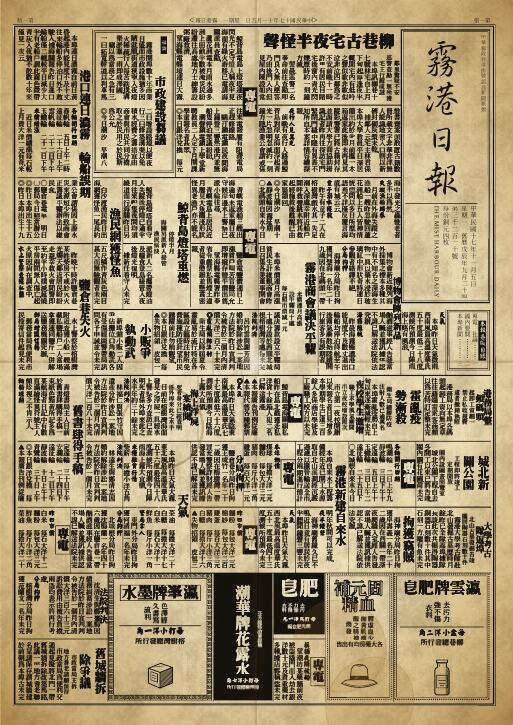
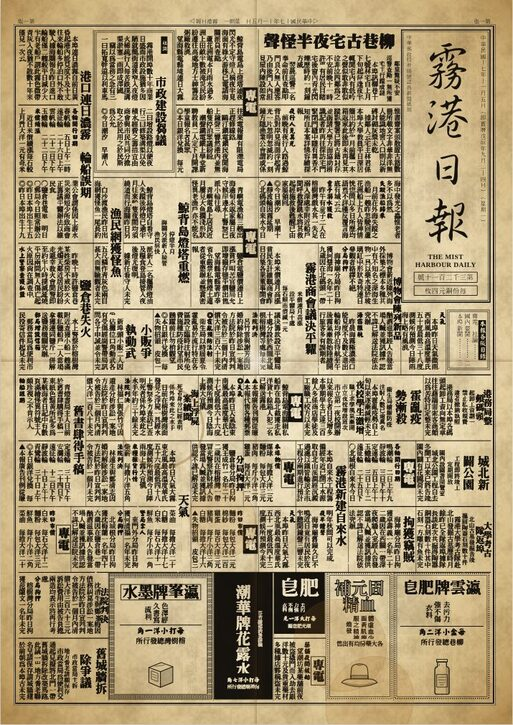
品質收尾：README 與樣張（大字模式整版、1:1 內文與割注對照、報頭細節；重做 1910 年代與頂部橫排報頭的樣張）
Claude-Session: https://claude.ai/code/session_01QshuMHJr6dZY8xiKzFUCcX

diff --git a/README.md b/README.md
@@ -30,6 +30,16 @@
 | --- | --- | --- |
 | ![](docs/samples/v4-closeup-title.jpg) | ![](docs/samples/v4-closeup-body.jpg) | ![](docs/samples/v4-closeup-frame.jpg) |
 
+大字模式（一段放的字少一點、字大一點：A4 列印時內文 3.3 mm、平常 2.7 mm，割注跟著放大）與 1:1 局部對照（左：整版；右：同一區塊、同一比例，從列印 PDF 切出）：
+
+| 大字模式整版 | 內文與割注對照 |
+| --- | --- |
+| ![](docs/samples/newspaper-bigtext.jpg) | ![](docs/samples/bigtext-compare.jpg) |
+
+照參考報紙調整的報頭：直式報頭的日期在右緣、英文報名橫排粗體、號數與定價各一框；頂部橫排報頭左右加報耳（文字為原創）：
+
+![報頭細節](docs/samples/masthead-ref.jpg)
+
 整版報紙的年代預設與細節：
 
 | 1910 年代（右側直排報頭） | 1920 年代（右上角報頭，預設） | 1930 年代（左上角報頭、現代標點） | 頂部橫排報頭、無標點 | 掃描感 | 1910 年代＋廣告版 |
@@ -74,6 +84,8 @@
      一般／空心字／黑底白字／加框／陰影、【】〔〕「」◎▲）、內文（字型、大中小與割注——一行裡並排兩小行）、
      框線（無、單線、雙線、粗細線、點線、花邊：回紋、雲紋、圓點、菱形、波紋）、插圖、高度（段）與寬度（行）；
      另有新增、複製、刪除、鎖定（換一批、換一個版面配置時保留內容與樣式）、上移、下移、還原。
+     也可以直接在預覽上**拖曳**一個區塊，放到另一個區塊上就換到那個位置（移動不到 8 像素仍是點選）。
+     **大字模式**：一段放的字少一點、字大一點，A4 列印時內文 3.3 mm（平常 2.7）、A5 2.8 mm，小號內文改成中號，割注跟著放大。
      版面類型與年代預設是起點，只有改過的欄位存進 JSON，匯入時逐項驗證；舊存檔照樣能匯入。
 
      你的新聞放在頭條，其餘用內建的填版素材（本埠短訊、有主標副標的新聞、社論、專電、連載小說、副刊詩文、
